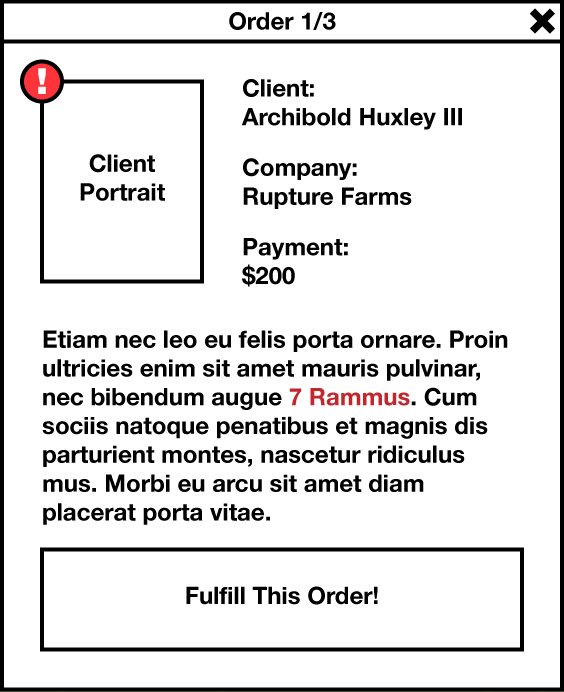
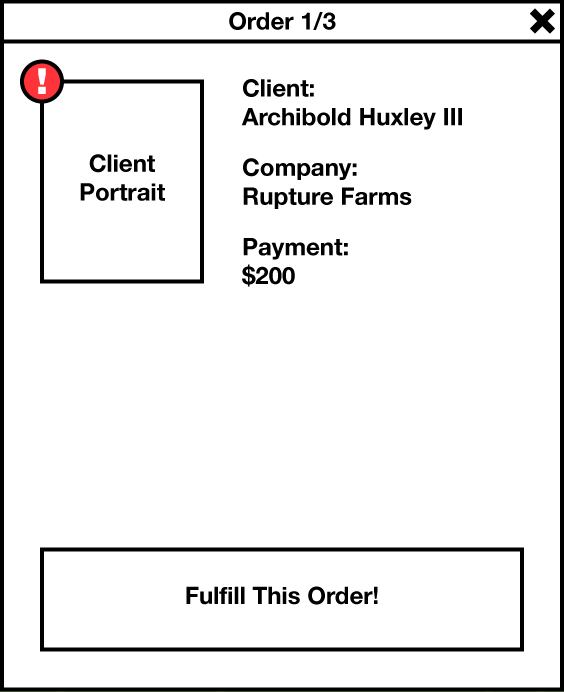
objective label, order text, and win modal changes

Changed region(s): [[0.0603, 0.4552, 0.9043, 0.7587]]

diff --git a/html5/js/src/OrdersMenu.js b/html5/js/src/OrdersMenu.js
@@ -22,9 +22,8 @@ GlassLab.OrdersMenu = function(game) {
     this.mock.scale.setTo(.8,.8);
     this.sprite.addChild(this.mock);
 
-    this.descriptionLabel = game.make.text(282, 250, "", {wordWrap: true, wordWrapWidth: 400});
-    this.descriptionLabel.fontSize = 22;
-    //this.sprite.addChild(this.descriptionLabel);
+    this.descriptionLabel = game.make.text(282, 250, "", {wordWrap: true, wordWrapWidth: 390, font:"16pt Arial"});
+    this.sprite.addChild(this.descriptionLabel);
 
     this.selectButton = game.make.button(282, 438, "selectOrderButton", function(){
         this.Hide();
@@ -50,9 +49,36 @@ GlassLab.OrdersMenu.prototype.IsShowing = function()
     return this.sprite.visible;
 };
 
+function getProcessedString(string)
+{
+    var returnString = string;
+    var replaceString = string.replace(/\[[^\]]+\]/i, "");
+    while(returnString != replaceString)
+    {
+        returnString = replaceString;
+        replaceString = replaceString.replace(/\[[^\]]+\]/i, "");
+    }
+    return returnString;
+}
+
+function getStringColorInfo(string)
+{
+    // TODO: This doesn't work at all right now.
+    var colors = [];
+    var searchString = string;
+    var colorInfo = searchString.match(/\[[^\]]+\]/i);
+    var colorData = {};
+    while (colorInfo)
+    {
+        colorData.color = colorInfo;
+        searchString
+        colors.add()
+    }
+}
+
 GlassLab.OrdersMenu.prototype.Refresh = function()
 {
-    this.descriptionLabel.setText(this.data.description);
+    this.descriptionLabel.setText(getProcessedString(this.data.description));
 };
 
 GlassLab.OrdersMenu.prototype.SetInfo = function(data)
@@ -65,12 +91,7 @@ GlassLab.OrdersMenu.prototype.Show = function()
 {
     this.sprite.visible = true;
 
-    this.SetInfo(
-        {
-            numCreatures: 7,
-            type: "rammus",
-            description: "Etiam nec leo eu felis porta ornare. Proin ultricies enim sit amet mauris pulvinar, nec bibendum augue 7 Rammus. Cum sociis natos que penatibus et magnis dis parturient montes, nascetur ridiculus mus. Morbi eu arcu sit amet diam placerat porta vitae."
-        });
+    this.SetInfo(GLOBAL.levelManager.GetCurrentLevel().data.orders[0]);
 };
 
 GlassLab.OrdersMenu.prototype.Hide = function()

diff --git a/html5/js/src/LevelManager.js b/html5/js/src/LevelManager.js
@@ -22,7 +22,8 @@ GlassLab.LevelManager = function(game)
       ],
       looseCreatures: {
         rammus: 1
-      }
+      },
+        objective: "Feed the ram!"
     };
 
     var level2 = this._addLevelData(new GlassLab.Level());
@@ -32,7 +33,8 @@ GlassLab.LevelManager = function(game)
       ],
       looseCreatures: {
         rammus: 3
-      }
+      },
+        objective: "Feed all the rams!"
     };
 
     var level3 = this._addLevelData(new GlassLab.Level());
@@ -41,25 +43,25 @@ GlassLab.LevelManager = function(game)
         {
             numCreatures: 7,
             type: "rammus",
-            description: "Etiam nec leo eu felis porta ornare. Proin ultricies enim sit amet mauris pulvinar, nec bibendum augue 7 Rammus. Cum sociis natos que penatibus et magnis dis parturient montes, nascetur ridiculus mus. Morbi eu arcu sit amet diam placerat porta vitae."
+            description: "I want [#ffffff]7 Rams[/]. Herpa derpa durr derr."
         }
       ],
       looseCreatures: {
         rammus: 0
-      }
+      },
+        objective: "Fill an order!"
     };
 
     var level4 = this._addLevelData(new GlassLab.Level());
-      level4.data = {
+        level4.data = {
         pens: [
-          {type: "rammus", bottomDraggable: true, leftDraggable: true, topDraggable: false} // TODO; fix issues
+            {type: "rammus", bottomDraggable: true, leftDraggable: true, topDraggable: false} // TODO; fix issues
         ],
         looseCreatures: {
-          rammus: 30
-        }
-      };
-
-    //this.levels.push(level1, level2, level3);
+            rammus: 30
+        },
+            objective: "Feed as many rams as you can!"
+    };
 };
 
 GlassLab.LevelManager.prototype._addLevelData = function(levelData)

diff --git a/html5/js/src/prototype.js b/html5/js/src/prototype.js
@@ -159,6 +159,22 @@ window.onload = function() {
         }, centerAnchor);
         uiGroup.add(centerAnchor);
 
+        var objectiveLabel = game.make.text(0, -280, "Objective: ", {fill: "#ffffff", font: "20px Arial"});
+        objectiveLabel.anchor.setTo(.5, 0);
+        GlassLab.SignalManager.levelLoaded.add(function(level){
+            if (level.data.objective)
+            {
+                this.visible = true;
+                this.setText("Objective: "+level.data.objective);
+            }
+            else
+            {
+                this.visible = false;
+            }
+        }, objectiveLabel);
+        centerAnchor.addChild(objectiveLabel);
+        GLOBAL.objectiveLabel = objectiveLabel;
+
         var topRightAnchor = game.make.sprite(game.camera.width, 0);
         topRightAnchor.anchor.setTo(1, 0);
         topRightAnchor.fixedToCamera = true;
@@ -306,7 +322,7 @@ window.onload = function() {
 
         var journal = new GlassLab.Journal(game);
         journal.sprite.x = -320;
-        journal.sprite.y = -220;
+        journal.sprite.y = -270;
         journal.sprite.scale.setTo(.6, .6);
         centerAnchor.addChild(journal.sprite);
         GLOBAL.Journal = journal;

diff --git a/html5/js/src/Journal.js b/html5/js/src/Journal.js
@@ -82,11 +82,11 @@ GlassLab.Journal = function(game) {
     this.sprite.addChild(this.closeButton);
 
     // Page buttons
-    this.nextPageButton = game.make.button(1010, 350, "sideArrow" , this._onNextPagePressed, this);
+    this.nextPageButton = game.make.button(1010, 450, "sideArrow" , this._onNextPagePressed, this);
     this.nextPageButton.anchor.setTo(0, 0.5);
     this.sprite.addChild(this.nextPageButton);
 
-    this.prevPageButton = game.make.button(-10, 350, "sideArrow" , this._onPrevPagePressed, this);
+    this.prevPageButton = game.make.button(-10, 450, "sideArrow" , this._onPrevPagePressed, this);
     this.prevPageButton.scale.x *= -1;
     this.prevPageButton.anchor.setTo(0, 0.5);
     this.sprite.addChild(this.prevPageButton);

diff --git a/html5/js/src/UIManager.js b/html5/js/src/UIManager.js
@@ -13,10 +13,11 @@ GlassLab.UIManager = function(game, centerAnchor)
     var nextButton = new GlassLab.UIButton(this.game, 0, 0, this._onContinuePressed, this, 150, 60, 0xffffff, "Continue");
 
     this.winModal = new GlassLab.UIModal(this.game, "Good job! You did it!", [retryButton, nextButton]);
+    this.winModal.y += 220;
     this.centerAnchor.addChild(this.winModal);
     this.winModal.visible = false;
 
-    GlassLab.SignalManager.journalClosed.add(function(){
+    GlassLab.SignalManager.levelWon.add(function(){
       this.visible = GLOBAL.levelManager.GetCurrentLevel().isCompleted;
     }, this.winModal);
 
